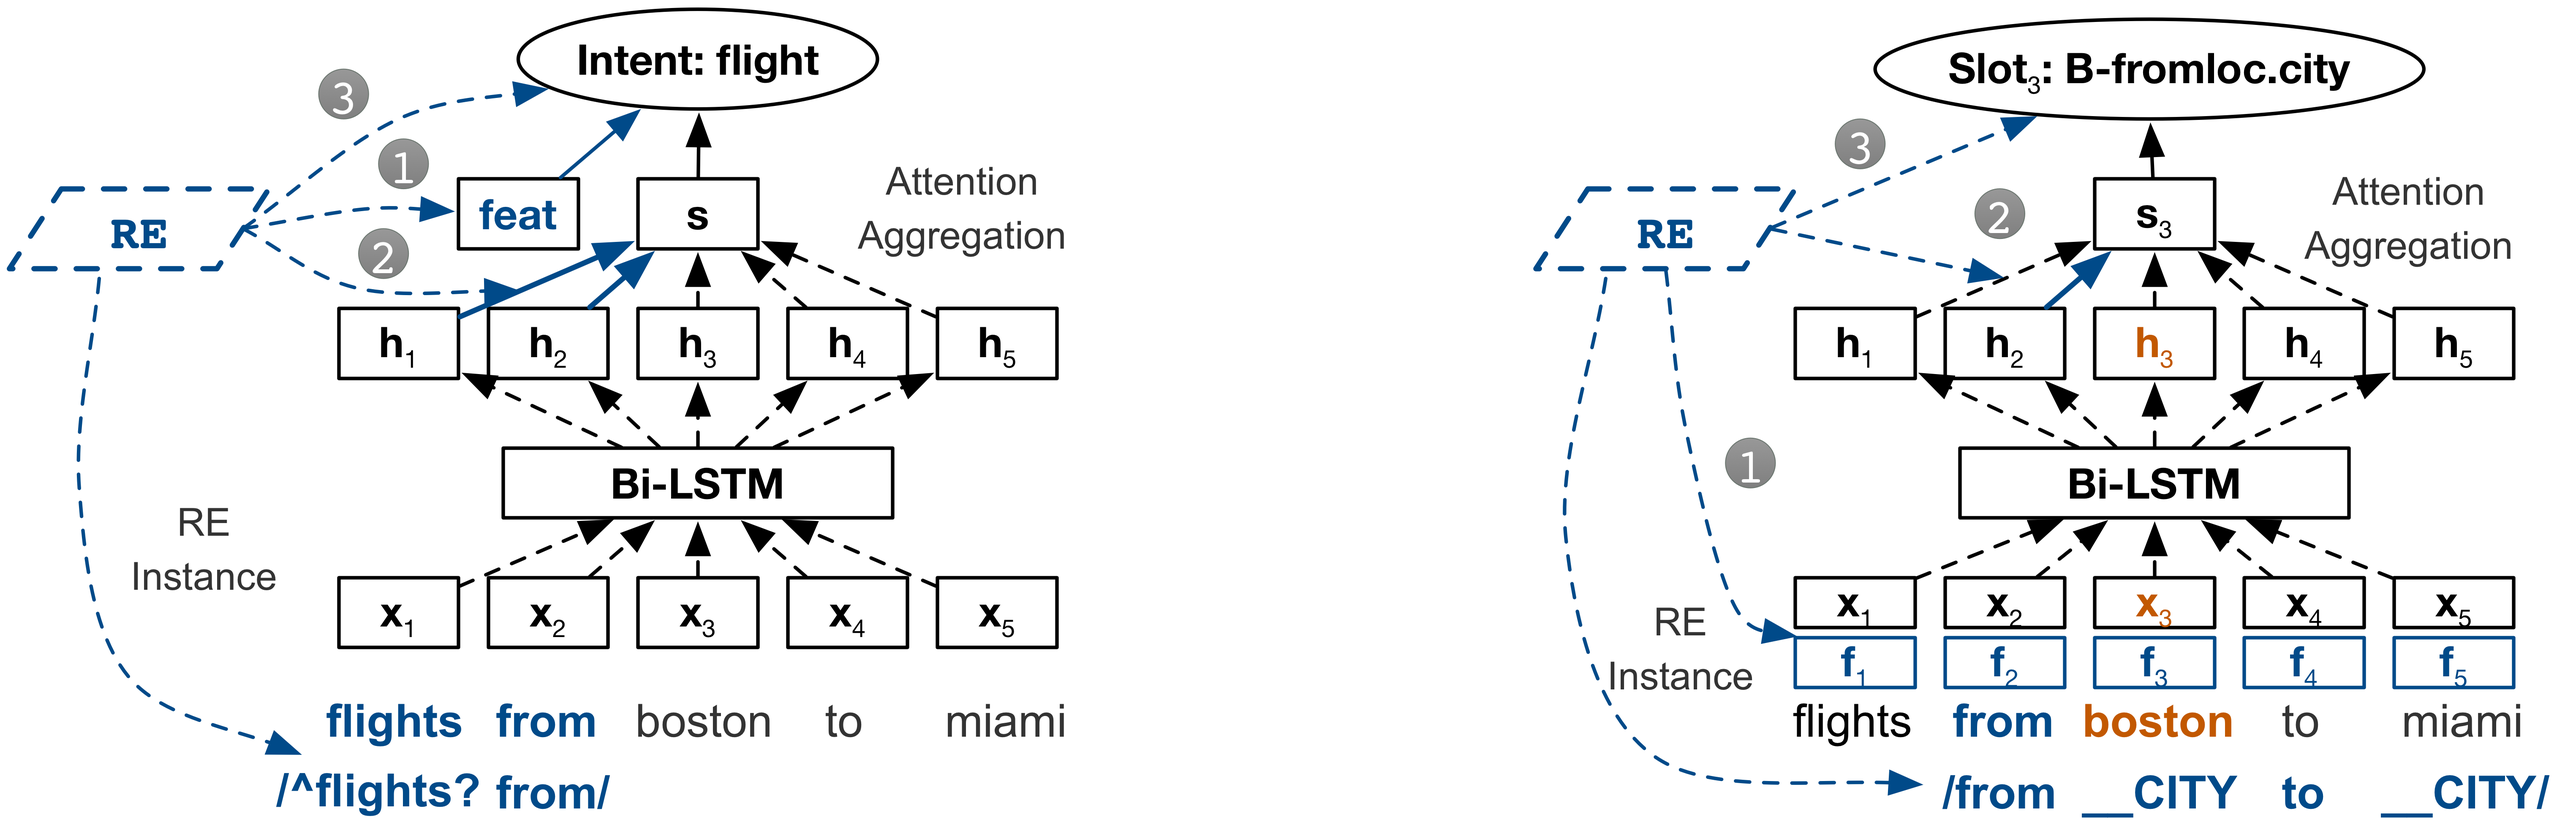
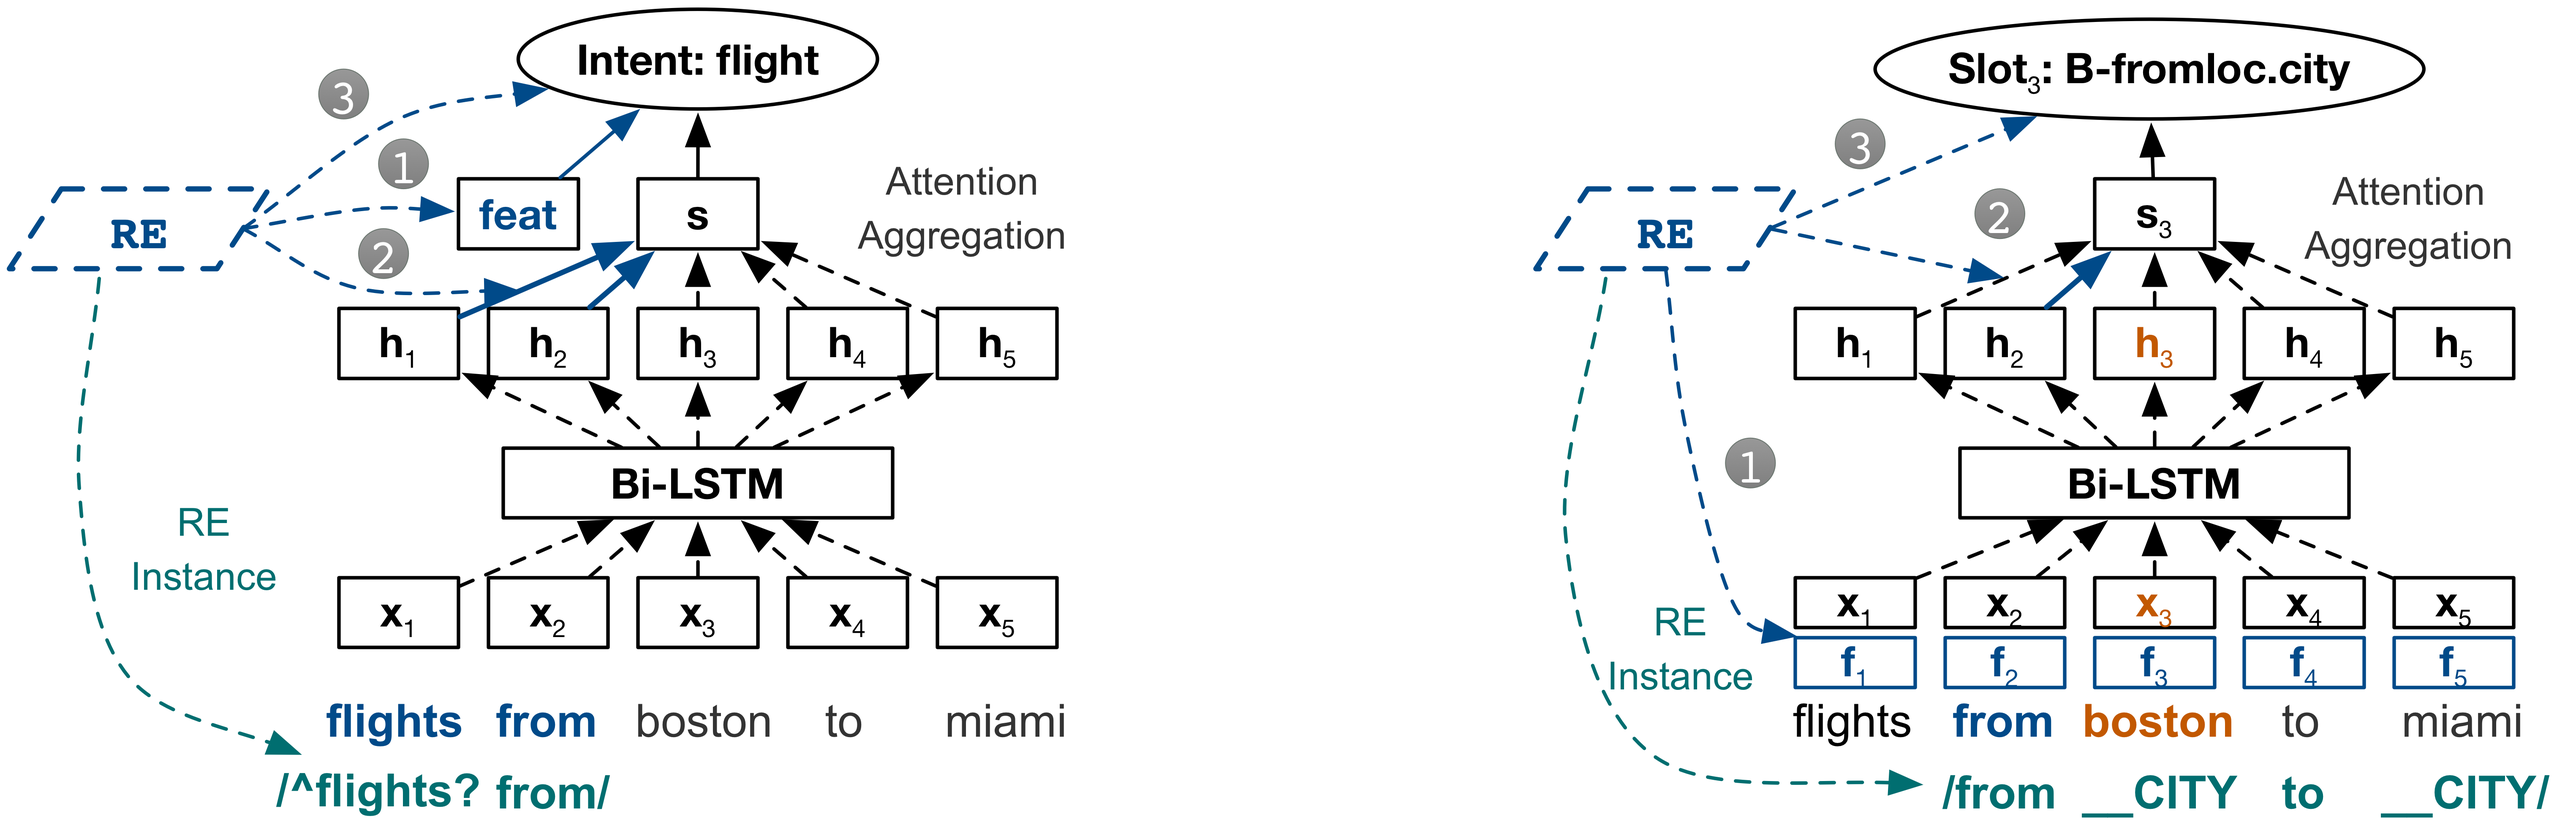
major in approach

diff --git a/approach.tex b/approach.tex
@@ -3,7 +3,7 @@
 \begin{figure*}[t!]
 \begin{center}
 \includegraphics[width=0.85\textwidth]{figure/re_nn_overview.png}    
-\caption{Overview of our methods. The left side shows the methods for intent detection, and the right side shows an example for predicting the slot lable for the third word. \circled{1}, \circled{2}, \circled{3} refers to the methods in Section \ref{fusion_with_input}, \ref{interact_with_module}, \ref{fusion_with_output} respectively, and the \RE that applies to the input sentence is shown in the bottom.}
+\caption{Overview of our methods. The left side shows the methods for intent detection, and the right side shows an example for predicting the slot lable for the word \textsl{\underline{boston}}. \circled{1}, \circled{2}, \circled{3} refers to the methods in Sec.~\ref{fusion_with_input}, \ref{interact_with_module}, \ref{fusion_with_output} respectively, and the \RE that applies to the input sentence is shown in the bottom.}
 \label{fig_overview}
 \end{center}
 \vspace{-1em}
@@ -31,10 +31,10 @@ The model for slot filling is more straightforward. Given the output of \BLSTM, 
 \label{fusion_with_input}
 Similar to the stacking technique \cite{wolpert1992stacked}, a straightforward way to combine \RE and \NN is to use the output of \RE patterns as feature, and feed them as the input of \NN models.
 \paragraph{Intent Detection}
-The output of \RE patterns for intent detection is a tag for the entire sentence, which may or may not be the same as intent labels.\footnote{If no \RE matches, we will assign a special tag indicating no matches. This process is applied to all the settings.} 
-And these tags may possibly conflict with each other due to the imperfection of the patterns. 
-For example, the sentence \emph{list the delta airlines flights from boston to miami} may another pattern \texttt{/list(\;the)?\;\_\_AIRLINE/} that output tag \emph{airline}, 
-and match a pattern \texttt{/list(\;\textbackslash w+)\{0,3\}?\;flights?/} that output tag \emph{flight} as well.
+Our \RE tag for intent detection is the same as the intent label.\footnote{If no \RE matches, we will assign a special tag indicating no matches. This process is applied to all the settings.} 
+And due to the imperfection of the \RE, one sentence may have several \RE tags that are possibly conflict with each other.
+For example, the sentence \textsl{\underline{list the delta airlines flights to miami}} may match a pattern \texttt{/list(\;the)?\;\_\_AIRLINE/} that output tag \emph{airline}, 
+and another pattern \texttt{/list(\;\textbackslash w+)\{0,3\}?\;flights?/} that output tag \emph{flight} as well.
 % \footnote{\texttt{\_\_WORD} matches a single word, which can be \texttt{/\textbackslash w+/}.}
 
 % Many paper has proved that, embed the discrete feature is an effective method to combine features in \NN \cite{zeng2014relation, guo2017deepfm}. 
@@ -45,14 +45,14 @@ In our pilot experiments, we find that the copied tag embeddings tend to dominat
 
 \paragraph{Slot Filling}
 Since the output of slot \RE patterns output word-level tags, as shown in \circled{1} in the right part of Fig.~\ref{fig_overview}, we can simply embed and average the \RE tags into a vector $\textbf{f}_i$ for each word, and append it to the corresponding word embedding $\textbf{w}_i$. 
-Further, since our slot labels follow the BIO annotation paradigm, we also extend the slot \RE tags to the BIO format. For example, the \RE tag of phrase \emph{new york} is \emph{B-city I-city} if its original tag is \emph{city}.
+Further, since our slot labels follow the BIO annotation paradigm, we also extend the slot \RE tags to the BIO format. For example, the \RE tag of phrase \textsl{\underline{new york}} is \emph{B-city I-city} if its original tag is \emph{city}.
 
 \subsection{Interact with NN Module}
 \label{interact_with_module}
 Since the \RE pattern itself has already highlighted informative words for the output tag, it can therefore help us guide the attention module in \NN.
 As shown in \circled{2} in Fig.~\ref{fig_overview}, the bold blue arrows and words indicates the informative words marked by \RE for this prediction.
 \paragraph{Intent Detection}
-Taking the sentence in Table \ref{atis_sample} for example, the pattern \texttt{/\textasciicircum flights?\:from/} that leads to tag \emph{flight} means that, \emph{flights from} are key words to decide the intent \emph{flight}. Therefore, the attention module in \NN should attend to these two words to make correct prediction. 
+Taking the sentence in Table \ref{atis_sample} for example, the pattern \texttt{/\textasciicircum flights?\:from/} that leads to tag \emph{flight} means that, \textsl{\underline{flights from}} are key words to decide the intent \emph{flight}. Therefore, the attention module in \NN should attend to these two words to make correct prediction. 
 
 Different from the base intent model, we make two changes to better incorporate the guidance from \RE.
 First, since each intent has its own informative words, using a single sentence embedding, which is produced by only one set of attention, would make the attention less focused. 
@@ -72,7 +72,7 @@ p_i = \frac{logit_i}{\sum_{i}{logit_i}}, \quad\quad logit_i=\textbf{w}_i\textbf{
 \end{equation}
 where $\textbf{w}_i$, $logit_i$, $b_i$ are weight vector, logit, and bias for intent $i$ respectively.
 
-Second, apart from indicating a sentence expressing intent $i$ (\emph{positive patterns}), an \RE pattern can also indicate that a sentence should not be labeled as intent $i$ (\emph{negative patterns}). Therefore, to make use of negative patterns, we use another set of attention to compute a new set of logits for each intent using Eq.~\ref{label_att_eq} and \ref{label_prob_eq}. By denoting the logits computed by positive patterns as $logit_{pi}$, and the ones computed by negative patterns as $logit_{ni}$, the final logit for intent $i$ is then: 
+Second, apart from indicating a sentence expressing intent $i$ (\textbf{\emph{positive patterns}}), an \RE pattern can also indicate that a sentence should not be labeled as intent $i$ (\textbf{\emph{negative patterns}}). Therefore, to make use of negative patterns, we use another set of attention to compute a new set of logits for each intent using Eq.~\ref{label_att_eq} and \ref{label_prob_eq}. By denoting the logits computed by positive patterns as $logit_{pi}$, and the ones computed by negative patterns as $logit_{ni}$, the final logit for intent $i$ is then: 
 \begin{equation}
 logit_i = logit_{pi} - logit_{ni}
 \end{equation}
@@ -82,7 +82,7 @@ To use \RE patterns to guide the attention, we add an attention loss to the fina
 loss_{att} = \sum_{i}{m_i\sum_{j}{t_{ij}log(\alpha_{ij})}}
 \label{att_loss}
 \end{equation}
-where $t_{ij} = 0$ when none of the matched patterns that lead to intent $i$ mark word $j$ as informative (\emph{clue word}), otherwise $t_{ij} = 1/k_{i}$ where $k_i$ is the number of clue words mark by \RE for intent $i$. $m_i$ is a 0-1 indicator that equals 1 only when there is a matched \RE that leads to intent $i$. We use Eq.~\ref{att_loss} to compute positive attention loss $loss_{att\_p}$ for positive patterns and negative attention loss $loss_{att\_n}$ for negative ones. The final loss is:
+where $t_{ij} = 0$ when none of the matched patterns that lead to intent $i$ mark word $j$ as informative (\textbf{\emph{clue word}}), otherwise $t_{ij} = 1/k_{i}$ where $k_i$ is the number of clue words mark by \RE for intent $i$. $m_i$ is a 0-1 indicator that equals 1 only when there is a matched \RE that leads to intent $i$. We use Eq.~\ref{att_loss} to compute positive attention loss $loss_{att\_p}$ for positive patterns and negative attention loss $loss_{att\_n}$ for negative ones. The final loss is:
 \begin{equation}
 loss = loss_{c} + \beta_p loss_{att\_p} + \beta_n loss_{att\_n}
 \end{equation} 
@@ -92,7 +92,7 @@ In practice, while with some noise, a positive pattern for intent $i$ can often 
 Therefore, we use the positive pattern for intent $i$ as the negative patterns for other intents in our experiments.
 
 \paragraph{Slot Filling}
-While we can apply the same \emph{two-side attention} (positive and negative attention) method as we do in intent prediction, we face an efficiency problem in slot filling. Since we need to assign a label for each word, if we still compute attention for each tag, we will have to compute $2\times L \times n^2$ attention values for one sentence, where $L$ is the number of tags and $n$ is the sentence length. Considering the BIO tagging format further doubles the number of tags, this will result in a lot of computation and memory storage. 
+While we can apply the same \textbf{\emph{two-side attention}} (positive and negative attention) method as we do in intent prediction, we face an efficiency problem in slot filling. Since we need to assign a label for each word, if we still compute attention for each tag, we will have to compute $2\times L \times n^2$ attention values for one sentence, where $L$ is the number of tags and $n$ is the sentence length. Considering the BIO tagging format further doubles the number of tags, this will result in a lot of computation and memory storage. 
 
 Therefore, we use the simplified version of the two-side attention. Specifically, all the tags share the same set of positive and negative attention, and therefore we have only one sentence embedding $\textbf{s}_{pi}$ generated from positive attention, and another embedding $\textbf{s}_{ni}$ from negative attention for each word $i$. The final prediction $\textbf{p}_i$ for word $i$ is then:
 \begin{equation}
@@ -108,15 +108,20 @@ The final type of combination is to use \RE to modify the output of \NN, and the
 
 % Therefore, instead using a teach-student framework, this enables us to directly influence the logits of each label in a trainable way, so that we do not need to assign a weight for each pattern, and significantly reduces the number of hyper-parameters.
 
-As mentioned in Section \ref{re_desc}, while the intent \RE patterns output the intent label directly, \orange{the slot \RE patterns used in this section only output the entity part of the slot label.} To make connections between the \RE tag and the slot label, we further annotate all the slot labels that the output tag may lead to. For example, patterns that output tag \emph{city} will lead to three slot labels: \emph{fromloc.city}, \emph{toloc.city}, \emph{stoploc.city}.
+As mentioned in Section \ref{re_desc}, the slot \RE patterns used in this section only output a simplified version of the slot label.
+Since the \RE tag is related to the slot label, we can further annotate which slot labels that each \RE will lead to.
+% To make connections between the \RE tag and the slot label, we further annotate all the slot labels that the output tag may lead to.
+For example, a pattern that outputs tag \emph{city} will lead to three slot labels: \emph{fromloc.city}, \emph{toloc.city}, \emph{stoploc.city}.
 % Actually, annotating this kind of connections is not difficult, since the \RE tags are generally somewhat related to the target label that we are trying to predict, otherwise the \RE tags will not be able to provide useful information for the prediction.
 
-Let $z_i$ be a 0-1 indicator of whether at least one \RE pattern that leads to label $i$ matches the input sentence, then the final logits of label $i$ for the sentence (or a specific word for slot filling) is: 
+Let $z_i$ be a 0-1 indicator of whether at least one \RE pattern that leads to target label $i$ matches the input sentence, then the final logits of label $i$ for the sentence (or a specific word for slot filling) is: 
 \begin{equation}
 logit_i = logit'_i + w_i z_i
 \end{equation}
 where $logit'_i$ is the logit produced by the original \NN, and $w_i$ is a trainable weight indicating the overall confidence for patterns that lead to label $i$.
-Here we do not assign a trainable weight for each pattern because there is a good chance that there are only limited sentences matching a specific \RE. 
+Here we do not assign a trainable weight for each pattern because there is a good chance that there are only limited sentences matching a specific \RE.
+
+We modify logit instead of the final probability because logit is a real value, which matches $w_i z_i$ better than probability. Further, kagglers have also proved emperically that, ensembling with logits is often better than ensembling with the final probability (see the ensemble version of Juan et al.~\shortcite{juan2016field}), which is also the reason that we operate on logit instead of probability in Sec.~\ref{interact_with_module}.
 % Further, if we have strong prior confidence on the patterns, we can also easily incorporate these human-assigned pattern weights by simply multiplying it to $w_i$.
 
 

diff --git a/task.tex b/task.tex
@@ -18,15 +18,15 @@ For example, Table \ref{atis_sample} shows a sample sentence in the ATIS dataset
 \begin{tabular}{|c|l|}
 
 \hline
-\textbf{Sentence} &flights \;\;\; from \;\;\;\;\; boston \;\;\;\;\;\;\; to \;\;\;\; miami  \\
+\textbf{Sentence} &flights \;\;\;\;\;\;\;\; from \;\;\;\; boston \;\;\;\;\; to \;\;\; miami  \\
 \hline
-\textbf{Slot Label} &\;\;\; O \;\;\;\;\;\;\;\; O \;\; B-fromloc.city \, O \; B-toloc.city \\
+\textbf{Slot Label} &\;\;\; \emph{O} \;\;\;\;\;\;\;\;\;\;\; \emph{O} \; \emph{B-fromloc.city} \, \emph{O} \, \emph{B-toloc.city} \\
 \hline
-\textbf{Slot RE} & \multicolumn{1}{|l|}{\quad\quad\quad\;\;/from \quad (\_\_CITY) \;\;\;\;\,\, to \quad (\_\_CITY)/} \\
+\textbf{Slot RE} & \multicolumn{1}{|l|}{\quad\quad\quad\;\;\;\;\;\;/\texttt{from} \; \texttt{(\_\_CITY)} \, \texttt{to}  \texttt{(\_\_CITY)}/} \\
 \hline
-\textbf{Intent} &\multicolumn{1}{|c|}{flight} \\
+\textbf{Intent} &\multicolumn{1}{|c|}{\emph{flight}} \\
 \hline
-\textbf{Intent RE} & \multicolumn{1}{|l|}{/\textasciicircum flights? from/} \\
+\textbf{Intent RE} & \multicolumn{1}{|l|}{/\textasciicircum \texttt{flights?} \texttt{from}/} \\
 \hline
 \end{tabular}
 }
@@ -37,7 +37,8 @@ For example, Table \ref{atis_sample} shows a sample sentence in the ATIS dataset
 
 \subsection{Regular Expression Patterns}
 \label{re_desc}
-We denote the output of \RE as \textbf{\emph{\RE tag}}, and the label that we are trying to predict as \textbf{\emph{intent label}} and \textbf{\emph{slot label}} for intent detection and slot filling respectively, which are generally referred to as \textbf{\emph{target label}}. Note that, while not necessarily the same as the target label, \RE tag is usually related to one or more target labels. For example, the \RE tag \emph{city} is related to both \emph{fromloc.city} and \emph{toloc.city}.
+We denote the output of \RE as \textbf{\emph{\RE tag}}, and the label that we want to predict as \textbf{\emph{intent label}} and \textbf{\emph{slot label}} for intent detection and slot filling respectively, which are generally referred to as \textbf{\emph{target label}}. 
+Note that, while not necessarily the same as the target label, \RE tag is usually related to one or more target labels. For example, the \RE tag \emph{city} is related to: \emph{fromloc.city}, \emph{toloc.city}, \emph{stoploc.city}.
 
 Specifically, in this paper, our \RE tag for intent detection is the same as the intent label. For example, a pattern 
 \texttt{/\textasciicircum flights?\:from/} can match the sentence in Table~\ref{atis_sample}, and output intent \emph{flight}. 

diff --git a/evaluation.tex b/evaluation.tex
@@ -4,7 +4,7 @@ Our experiments aim to answer three main questions: (1) Does \RE patterns help w
 
 \subsection{Datasets}
 \label{sec_datasest}
-ATIS (Airline Travel Information Systems) dataset \cite{hemphill1990atis} is widely used in \NLU research. It involves queries about flights, meal and etc. We follow the setup of \cite{liu2016attention}, with 4978 queries for training and 893 for test. There are 18 intents and 127 slot labels. Numbers are replaced with special tokens like \emph{DIGIT*m}, where \emph{m} is the number of digits in the original string. Different from previous work, we also split words like \emph{Miami's} into \emph{Miami 's} to reduce the number of unseen words, which eases few-shot leanring and reduces the complexity of \RE.
+ATIS (Airline Travel Information Systems) dataset \cite{hemphill1990atis} is widely used in \NLU research. It involves queries about flights, meal and etc. We follow the setup of \cite{liu2016attention}, with 4978 queries for training and 893 for test. There are 18 intents and 127 slot labels. Numbers are replaced with special tokens like \textsl{\underline{DIGIT*m}}, where \emph{m} is the number of digits in the original string. Different from previous work, we also split words like \textsl{\underline{Miami's}} into \textsl{\underline{Miami 's}} to reduce the number of unseen words, which eases few-shot leanring and reduces the complexity of \RE.
 
 To answer question (1), we also explore the few-shot learning scenario. Specifically, for intent detection, we randomly select 5, 10, 20 training instances for each intent to form the few-shot training set. As for slot filling, we first sort the slot labels by frequence, and randomly select sentences for the least-frequent slot label first, then the more frequent labels afterwards one by one. Although we also explore 5, 10, 20 shots settings, since one sentence typically involves multiple slots, the number of frequent slot labels may inevitably exceed the target number of shots.
 To make the \texttt{RE}s reusable across different settings, $k_1$-shot dataset is contained by $k_2$-shot dataset if $k_1 < k_2$. 
